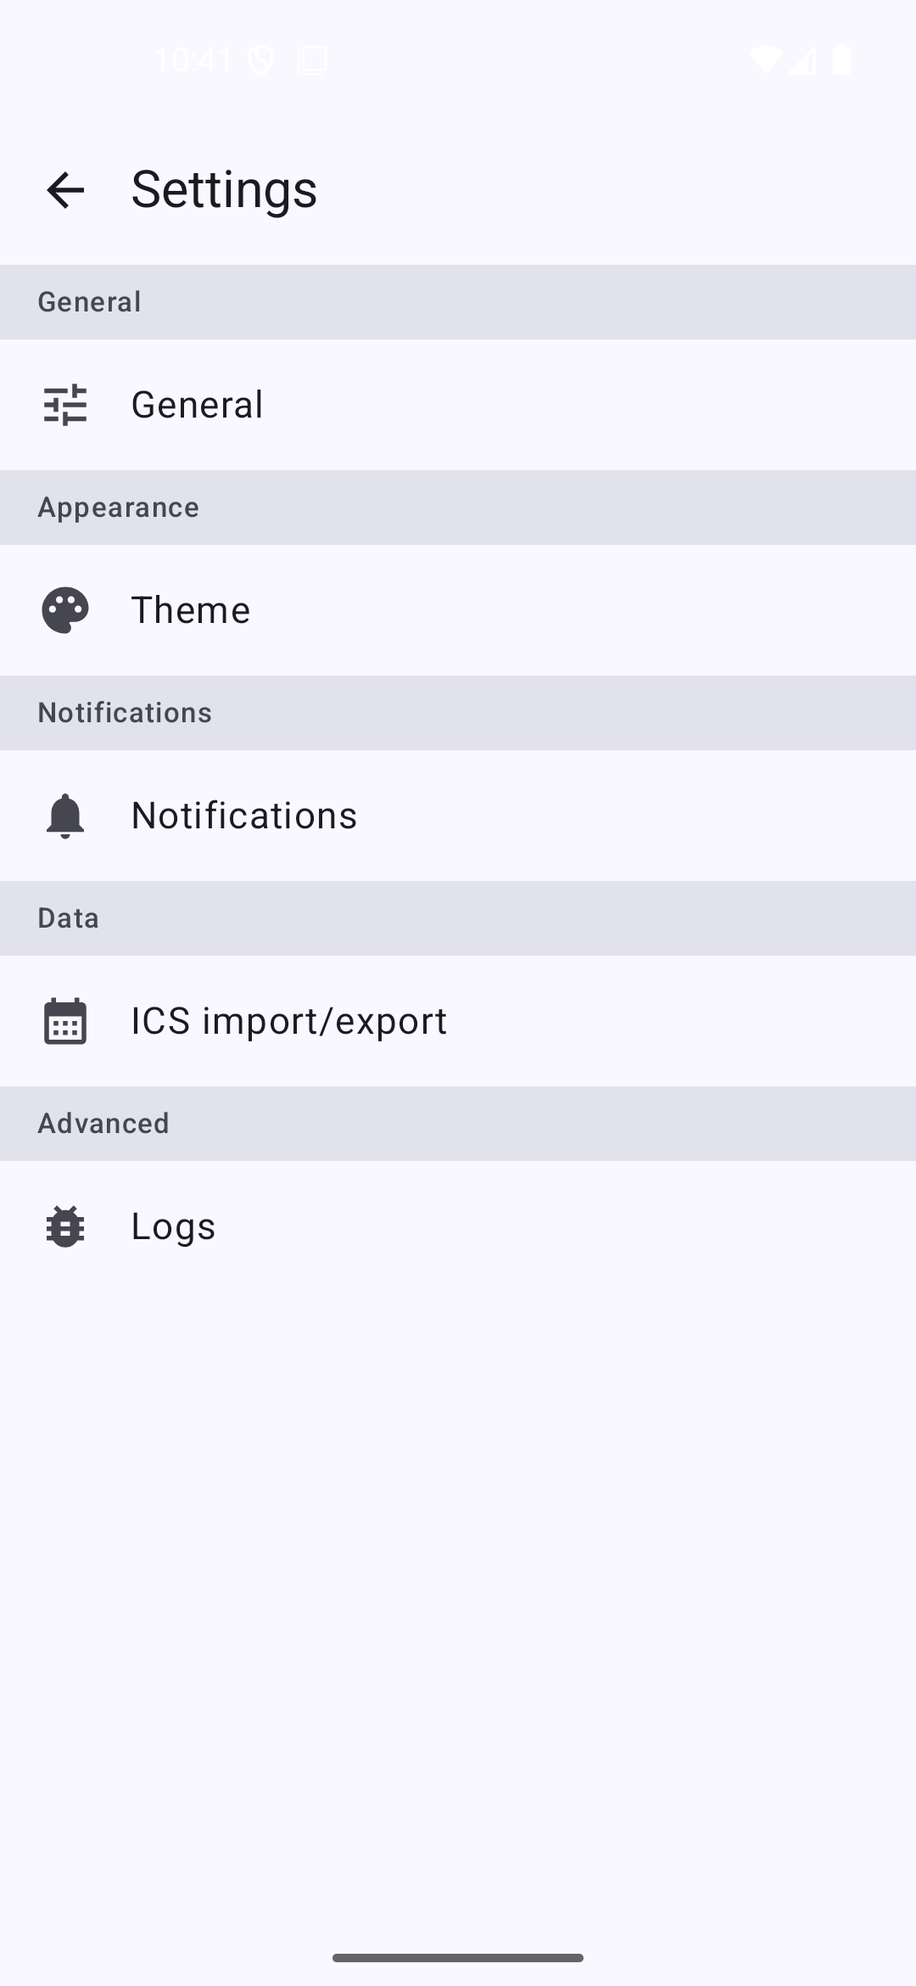
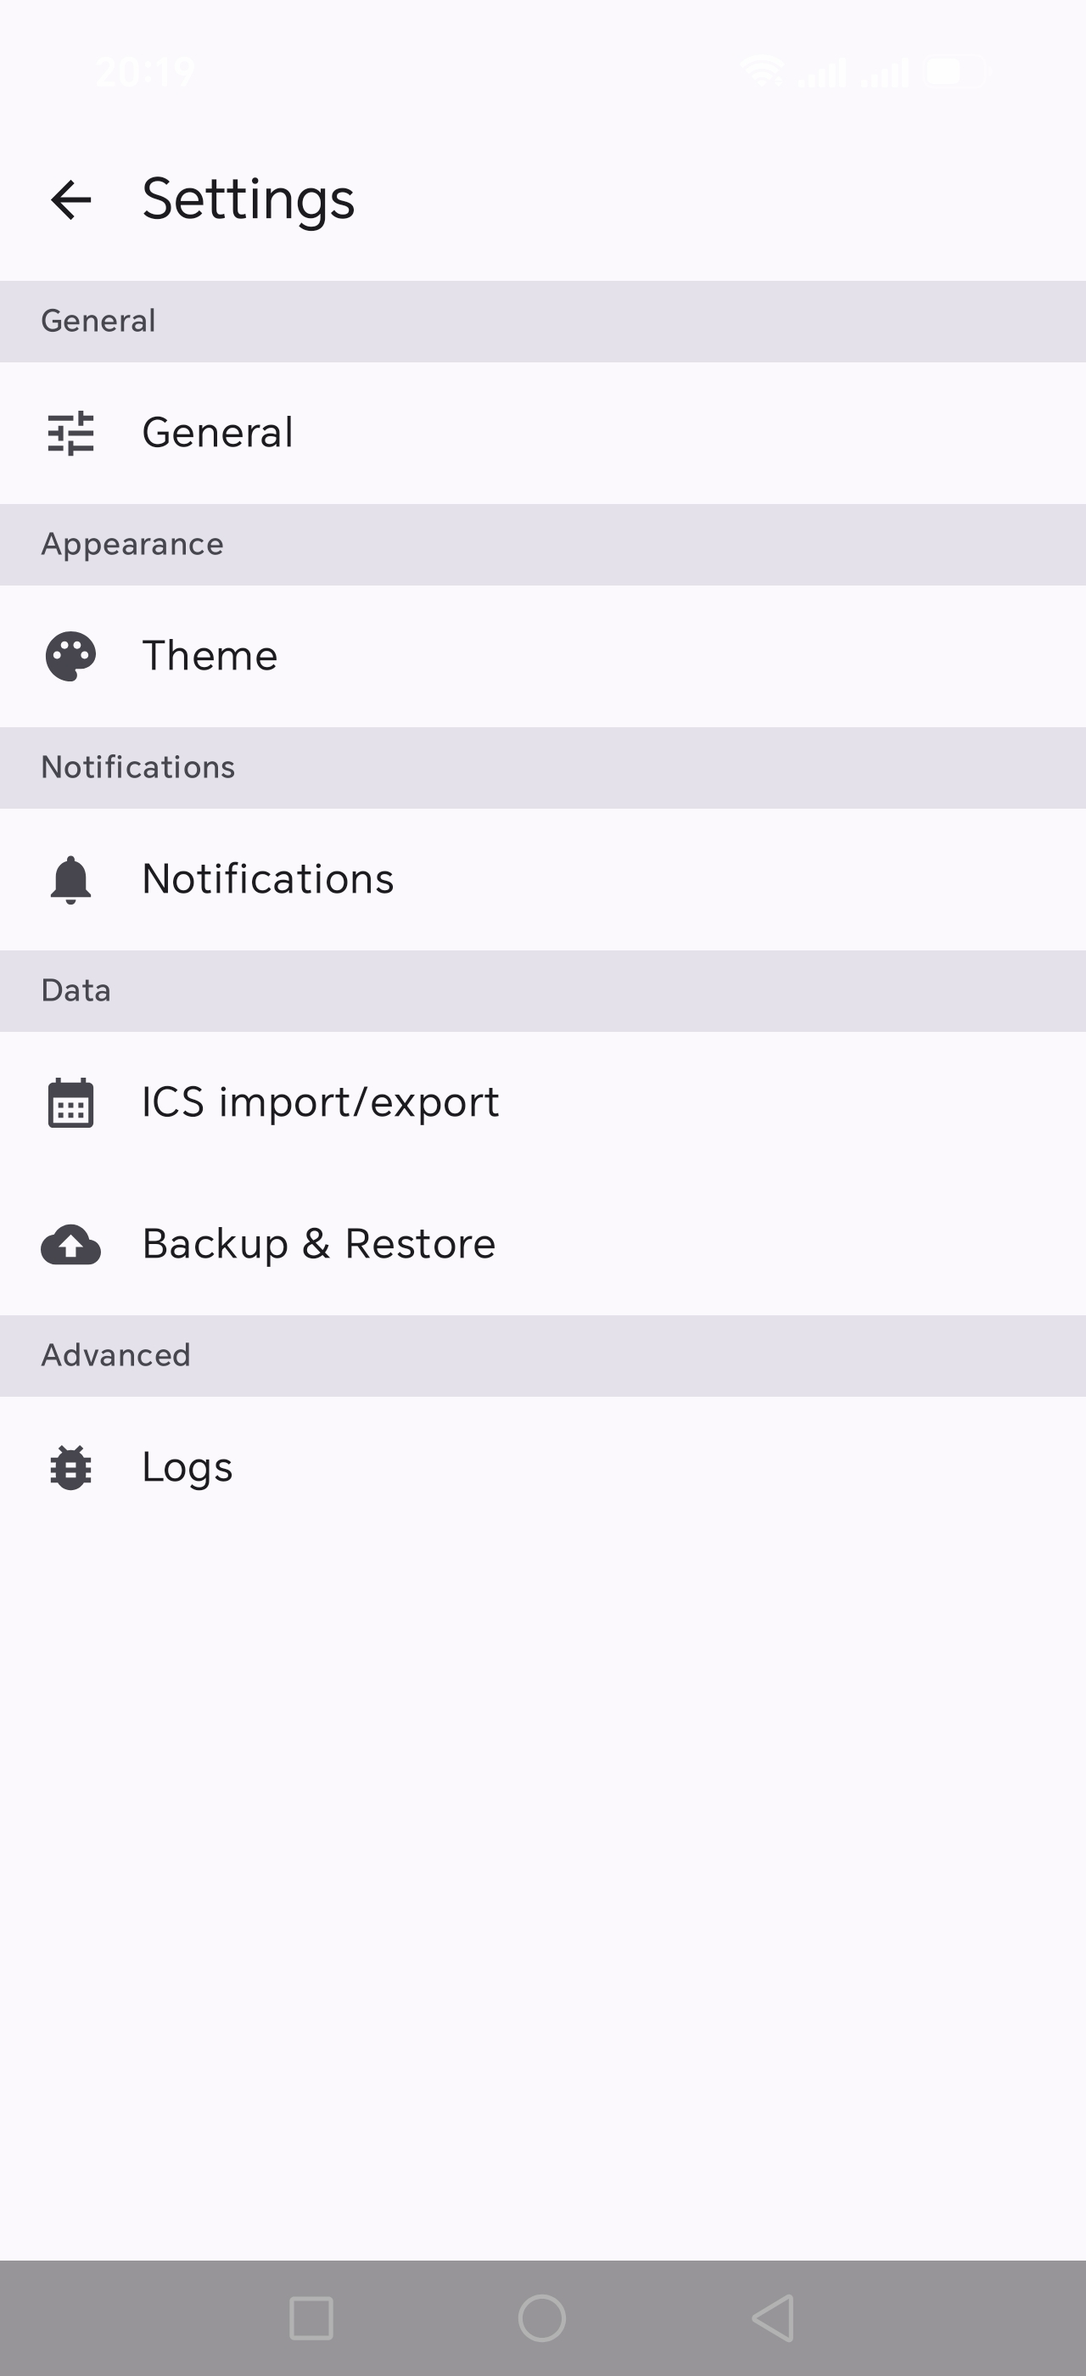
docs: refresh app descriptions, screenshots, README, and feature overview
Update each app's fastlane full_description.txt for recently shipped
features (Backup & Restore everywhere, shared location system, LiteRT-LM,
rescan suggestions, paperclip attachments, ML-based document detection,
unified scan modes, VoxConnect's actual pairing direction), add new
feature screenshots, and replace settings-sections screenshots that had
gone stale (missing the new Backup & Restore entry). README.md and
docs/APPS_OVERVIEW.md updated to match.

Changed region(s): [[0.0, 0.0624, 1.0, 0.6239], [0.0, 0.9359, 1.0, 1.0]]

diff --git a/docs/APPS_OVERVIEW.md b/docs/APPS_OVERVIEW.md
@@ -26,8 +26,10 @@ ecosystem plugs into, though it works completely on its own with no companion ap
      yourself. If one fires, nothing else runs.
   2. **L2 — Primary AI**, in-app labeled "AI Intent Translator (L2 Fallback)... Translates complex
      phrases into commands when Local Rules (L1) fail" (Settings → AI & Models → Intent Engines) — your
-     choice of a cloud LLM (OpenAI), Gemini Nano running natively on-device, Gemini Cloud, or any
-     downloaded on-device LLM engine.
+     choice of a cloud LLM (OpenAI), Gemini Nano running natively on-device, Gemini Cloud, or an
+     on-device LLM running via **LiteRT-LM** (migrated from MediaPipe GenAI for broader model
+     compatibility and better performance), with expanded system toggles and smarter FastMap rule
+     matching alongside it.
   3. **L3 — Offline Fallback**, a *separately*-configured backup engine+model used only if L2 fails or
      is unreachable (skipped automatically if it'd be identical to L2).
 
@@ -100,6 +102,18 @@ ecosystem plugs into, though it works completely on its own with no companion ap
 - **Vox Apps ecosystem** — companion apps (Notes, Vision, Expenses, Calendar, Hub) are discovered
   automatically once installed and controllable by voice with no extra setup; Settings → Integrations has
   a live panel listing discovered apps with a per-app contract-verification test.
+- **Location** (Settings → Integrations, shared `:core:location` module also used by Vox Expenses) — a
+  cached last-known location with a configurable expiry (None/1 day/1 week/1 month/Forever), a **Home
+  town** fallback used whenever GPS is unavailable and nothing's cached, and an **"Always use this
+  location"** toggle that skips GPS entirely and clears any cache, for a fixed search/weather location
+  regardless of where the device actually is.
+
+  <img width="388" height="850" alt="Location settings — Home town, cache duration, Always use this location" src="../vox-commander/fastlane/metadata/android/en-US/images/phoneScreenshots/26_location_hometown_cache.png" />
+
+- **Backup & Restore** (Settings → Backup tab) — back up FastMap rules and portable settings to a
+  file you pick, or restore from one, using the same zip format Vox Hub's own export/import produces;
+  restoring offers a choice of **Full override**, **Merge**, or **Additive** reconciliation (see
+  [Vox Hub](#vox-hub) below for the full explanation, shared by every app in the family).
 - Multi-language UI (English, Romanian, German, French).
 
 ## Vox Notes
@@ -140,7 +154,13 @@ through Commander (`create`/`read`) or used entirely on its own.
   unusable "Unclear Document" scan becomes a raw note holding just the photo instead of being lost),
   or always. Adding an attachment now offers **"Choose from gallery"** alongside the camera, plus the
   same **Single / Stitch / Batch** capture-mode chooser Vox Vision uses (see
-  [Vox Vision](#vox-vision) below).
+  [Vox Vision](#vox-vision) below). A note with at least one attachment shows a small paperclip icon
+  right after its title, in both the in-app list and the home-screen widget (shared across Notes,
+  Expenses, and Calendar — see [Vox Expenses](#vox-expenses)'s screenshot below).
+- **Backup & Restore** (Settings → Data → Backup & Restore) — back up notes/categories/settings to a
+  file you pick, or restore from one, using the same zip format Vox Hub's own export/import produces;
+  restoring offers **Full override**, **Merge**, or **Additive** reconciliation (see
+  [Vox Hub](#vox-hub) below).
 - **"Today" particle-effect theming** and **custom notification controls** (Settings, shared
   `:core:design` components also used by Vox Expenses/Vox Calendar) — see
   [Vox Calendar](#vox-calendar) below for what each does and a screenshot.
@@ -209,6 +229,14 @@ bank/payment notifications, or entered by hand.
   currency/vendor/category plus an `isPayment` triage flag, since notification text isn't guaranteed to
   even be a transaction) — all three route through Commander's generic LLM hook, just with different
   `task` IDs and prompts suited to how much structure each source actually has
+- **Rescan suggestions** — re-running OCR/AI cleanup on an already-saved expense (e.g. after attaching
+  a clearer photo) no longer overwrites fields silently: each field the rescan corrected shows up as its
+  own dismissible suggestion chip next to the current value, so you approve or reject them individually
+  instead of trusting the whole rewrite at once. An **auto-rescan on first attachment** setting
+  (Settings, off by default) triggers this automatically the moment a stub expense gets its first photo.
+
+  <img width="388" height="850" alt="Rescan suggestions, applied field by field" src="../vox-expenses/fastlane/metadata/android/en-US/images/phoneScreenshots/22_rescan_field_suggestions.png" />
+
 - **Notification capture** — an opt-in `NotificationListenerService` inspects notifications only from
   apps the user explicitly allowlists (Settings → Notification capture); a matched notification is a
   **pending suggestion** the user must approve or dismiss unless "Auto-accept" is enabled, in which case
@@ -314,7 +342,23 @@ bank/payment notifications, or entered by hand.
   original receipt scan (e.g. a warranty card, a second page); tap a thumbnail for a full-screen
   zoomable view, with an inline add/remove — same shared component as Vox Notes/Vox Calendar. Adding one
   now offers **"Choose from gallery"** alongside the camera, plus the same **Single / Stitch / Batch**
-  capture-mode chooser Vox Vision uses (see [Vox Vision](#vox-vision) above).
+  capture-mode chooser Vox Vision uses (see [Vox Vision](#vox-vision) above); removing one now asks for
+  confirmation first instead of deleting on the first tap. An expense with at least one attachment (the
+  original scan or a manually-added one) shows a small paperclip icon right after its title, in both the
+  in-app list and the home-screen widget.
+
+  <img width="388" height="850" alt="Paperclip indicator in the expense list" src="../vox-expenses/fastlane/metadata/android/en-US/images/phoneScreenshots/21_attachment_paperclip.png" />
+
+- **Location** (Settings → General, shared `:core:location` module also used by Vox Commander) — the
+  same cached-location/Home-town/"Always use this location" system described under
+  [Vox Commander](#vox-commander) above, used here to prefill an expense's location field.
+- **Backup & Restore** (Settings → Data → Backup & Restore) — back up expenses/categories/duplicate
+  rules/settings to a file you pick, or restore from one, using the same zip format Vox Hub's own
+  export/import produces; restoring offers **Full override**, **Merge**, or **Additive** reconciliation
+  (see [Vox Hub](#vox-hub) below).
+
+  <img width="388" height="850" alt="Backup & Restore, with the three restore modes" src="../vox-expenses/fastlane/metadata/android/en-US/images/phoneScreenshots/20_backup_restore.png" />
+
 - **Home-screen widget** (Jetpack Glance) — recent expenses grouped by day, category-colored rows,
   tap an expense to edit it in place, plus Add/Scan actions
 - **Battery-optimization exemption prompt** — Settings → Notification Capture and first-launch
@@ -343,8 +387,12 @@ own doc comment). Voice-created through Commander (`create`/`read`) or used enti
   `:core:calendar` engine, Week/Day are a new local hour-of-day grid, Year is 12 compact mini-months. Day
   view draws a red **"now" line** at the current time-of-day position and auto-scrolls to land near it
   on first open — the same "now" concept the ToDo timeline and home-screen widget also show (see below).
+  Once nothing's left for today, a **"Nothing else today"** label shows up right after the now-line (Day
+  view, the ToDo timeline, and the home-screen widget alike), bracketed by a time-of-day emoji pair
+  (☕/☀ morning-day, 🍵/🌅 golden hour, 🌙/✨ night) that stays in sync across all three.
 
   <img width="388" height="850" alt="Day view with the now-line" src="../vox-calendar/fastlane/metadata/android/en-US/images/phoneScreenshots/14_day_view_now_line.png" />
+  <img width="388" height="850" alt="Nothing else today, after the now-line" src="../vox-calendar/fastlane/metadata/android/en-US/images/phoneScreenshots/19_nothing_else_today.png" />
 
 - **Colored, named layers** (e.g. Personal / Work / Moon Calendar) instead of a hierarchical
   category tree — flat layers plus optional flat tags, each layer independently toggleable and
@@ -401,9 +449,16 @@ own doc comment). Voice-created through Commander (`create`/`read`) or used enti
   Batch** capture-mode chooser Vox Vision uses (Stitch live-joins several overlapping shots of one
   document, Batch defers OCR on a batch of photos until the session ends) — the "add" tile opens a
   chooser dialog rather than jumping straight to the camera. Shared component, same on Vox Notes/Vox
-  Expenses.
+  Expenses. An entry with at least one attachment shows a small paperclip icon right after its title, in
+  the calendar grid, the ToDo list, and the home-screen widget alike (see
+  [Vox Expenses](#vox-expenses)'s screenshot for what this looks like).
 
   <img width="388" height="850" alt="Attachments: gallery pick and capture-mode chooser" src="../vox-calendar/fastlane/metadata/android/en-US/images/phoneScreenshots/18_attachments_camera_gallery.png" />
+
+- **Backup & Restore** (Settings → Data → Backup & Restore) — back up events/layers/ToDo
+  lists/settings to a file you pick, or restore from one, using the same zip format Vox Hub's own
+  export/import produces; restoring offers **Full override**, **Merge**, or **Additive** reconciliation
+  (see [Vox Hub](#vox-hub) below).
 
 - **"Today" particle-effect theming** (Settings → Theme, `:core:design`'s `TodayEffects`, shared with
   Vox Notes/Vox Expenses) — an animated Canvas particle highlight on the current day, with five presets
@@ -447,14 +502,29 @@ other satellite implements as a server.
   into one dated zip via `ActivityResultContracts.CreateDocument`. This exact configuration is also
   what **scheduled backups** use (see below) — there's no separate data-selection step for those
 - **Import** — reads a previously exported file, previews a per-app record-count summary before
-  anything is written, and lets the user deselect individual apps; each target app applies its own
-  snapshot-then-replace semantics (existing records for that domain are fully replaced by the import,
-  not merged) and re-attaches any bundled photos to the newly-restored records
+  anything is written, and lets the user deselect individual apps; each target app reconciles its own
+  records against the import per one global **Import mode** (see below) and re-attaches any bundled
+  photos to the newly-restored records
+- **Import mode** (Settings → Backup schedule) — one global choice of how every app reconciles an
+  imported file against what's already on it: **Full override** (delete everything that app already had,
+  then insert the import), **Merge** (only delete pre-existing rows older than the backup, so anything
+  created since is kept), or **Additive** (never delete, only insert — the import just adds to what's
+  already there). Still respects each app's own Data toggle above — an app with Data off is skipped for
+  import entirely, regardless of this setting. Every satellite app's own local Backup & Restore screen
+  (see e.g. [Vox Expenses](#vox-expenses) above) has this exact same 3-way choice for its own restore
+  button, independent of Hub's global setting.
+
+  <img width="388" height="850" alt="Hub's backup schedule with the global Import mode control" src="../vox-hub/fastlane/metadata/android/en-US/images/phoneScreenshots/7_backup_schedule_import_mode.png" />
+
 - **Scheduled backups** — off/daily/weekly/monthly interval (`WorkManager`), configurable retention
   (none/2/5/10/unlimited, with a storage-growth warning at unlimited), a dismissible failure banner
   when a scheduled run doesn't complete, and a past-backups list (capped to 5 visible rows, scrollable)
   with per-backup **Share** and **Restore** actions. Frequency/retention controls are disabled until at
   least one app has something selected in the Export card above — there's nothing to schedule otherwise
+- **Backup & Restore, everywhere** — Notes, Expenses, Calendar, and Commander each have their own local
+  Backup & Restore screen too (see each app's own section above) — save to or restore from a file you
+  pick directly in that app, using the exact same zip format Hub's export/import produces, so a file
+  saved from one path is importable via the other. Hub itself also has one, for its own settings.
 - **Peer-to-peer device sync** — a second, genuinely *bidirectional* path alongside export/import's
   one-directional restore: pair two phones over NFC (tap to exchange identity + a session key — no
   Bluetooth PIN dialog), then sync Notes/Calendar/Expenses over Bluetooth Classic, both phones ending up
@@ -463,11 +533,14 @@ other satellite implements as a server.
   minutes (configurable). Per-peer category/layer checklist controls what's included. See
   [`TECHNICAL_DOCUMENTATION.md`'s Peer-to-peer device sync section](TECHNICAL_DOCUMENTATION.md#peer-to-peer-device-sync-op_sync_export--op_sync_merge)
   for the full architecture.
-- **VoxConnect** — a QR-paired bridge to a PC companion (`core/voxconnect`): scan a QR code the desktop
-  app shows to exchange identity, then a foreground bridge service keeps the phone reachable for the PC
-  side; schema-driven field discovery lets the PC app introspect what a paired phone can do without a
+- **VoxConnect** — a QR-paired bridge to a PC companion (`core/voxconnect`): the *phone's* camera scans
+  a QR code the desktop app displays (not the other way around, since most desktops have no camera) to
+  exchange identity, then a foreground bridge service keeps the phone reachable for the PC side;
+  schema-driven field discovery lets the PC app introspect what a paired phone can do without a
   hardcoded contract per feature, and a paired device can be renamed for easy identification when
   managing more than one.
+
+  <img width="388" height="850" alt="Phone scanning the desktop app's pairing QR code" src="../vox-hub/fastlane/metadata/android/en-US/images/phoneScreenshots/6_voxconnect_qr_pairing.png" />
 - Settings is grouped into labeled section banners (General/Appearance/Integrations/Advanced), same
   shared pattern as every app in the family.
 

diff --git a/README.md b/README.md
@@ -142,9 +142,11 @@ app, with implementation-level detail.
 ### 🎙 Vox Commander
 
 On-device voice assistant. Wake word (Vosk/Porcupine/OpenWakeWord) and on-device Whisper STT feed a
-3-layer AI pipeline — instant FastMap voice-shortcut rules you define yourself, a primary AI (cloud or
-on-device LLM), then an automatic offline fallback; app control, media/search/navigation/messaging, and
-system toggles (volume, WiFi, flashlight, DND, and more) all route through the same pipeline.
+3-layer AI pipeline — instant FastMap voice-shortcut rules you define yourself, a primary AI (cloud,
+Gemini Nano, or an on-device LiteRT-LM model), then an automatic offline fallback; app control,
+media/search/navigation/messaging, and system toggles (volume, WiFi, flashlight, DND, and more) all
+route through the same pipeline. A shared location system (cached last-known location, a Home Town
+fallback, "always use this location") and its own Backup & Restore screen round it out.
 
 <img width="388" height="850" alt="Vox Commander home screen" src="vox-commander/fastlane/metadata/android/en-US/images/phoneScreenshots/20_commander_home.png" />
 
@@ -159,8 +161,9 @@ https://github.com/user-attachments/assets/ff61a5de-d59c-4bdf-aacc-55bb1034cc07
 Encrypted on-device notes app. Create notes by voice through Commander or by hand; AI-assisted category
 cleanup and duplicate-note review (nothing auto-deleted without confirmation); a shared category color
 picker (scrollable presets + a full custom-color screen) with inline "+ New category…" creation right
-from the note editor; an optional calendar view instead of the plain list; a home-screen widget; syncs
-with another phone via Vox Hub.
+from the note editor; an optional split grid-and-list calendar view instead of the plain list; photo
+attachments via camera or gallery with a paperclip indicator; a home-screen widget; syncs with another
+phone via Vox Hub, plus its own Backup & Restore screen.
 
 <img width="388" height="850" alt="voice-to-note" src="https://github.com/user-attachments/assets/9435dfd2-a394-41ea-9539-acc83353a47d" />
 
@@ -179,11 +182,13 @@ record.
 
 Encrypted on-device expense tracker. Three ways in — voice, receipt-scan OCR, or automatic capture from
 bank/payment notifications (now durably queued and retried, not fire-and-forget) — plus manual entry;
-transaction direction (Total vs. Received in Reports), a user-configurable duplicate-rule engine
-(email-filter-style: any field, AND/OR, multiple rules, Off/Local/Local+AI/AI protection modes), merchant
-category memory (auto-applies a category after you correct the same vendor a few times), per-category
-spending limits with alerts, multi-currency reports, an optional calendar view, a home-screen widget,
-and sync with another phone via Vox Hub.
+rescanning a receipt shows each corrected field as its own suggestion instead of silently overwriting
+anything; transaction direction (Total vs. Received in Reports), a user-configurable duplicate-rule
+engine (email-filter-style: any field, AND/OR, multiple rules, Off/Local/Local+AI/AI protection modes),
+merchant category memory (auto-applies a category after you correct the same vendor a few times), a
+shared location system with Commander, per-category spending limits with alerts, multi-currency reports,
+photo attachments via camera or gallery with a paperclip indicator, an optional calendar view, a
+home-screen widget, sync with another phone via Vox Hub, and its own Backup & Restore screen.
 
 <img width="388" height="850" alt="invoice-to-expense" src="https://github.com/user-attachments/assets/244ed0fd-f71c-48cf-8f03-82d3726bf4df" />
 <img width="388" height="850" alt="voice-lidl-to-expense" src="https://github.com/user-attachments/assets/752bd7c7-79e3-4390-b1ef-d5c25daa2ca4" />
@@ -194,9 +199,11 @@ and sync with another phone via Vox Hub.
 ### 📅 Vox Calendar
 
 Encrypted on-device calendar. Colored, named layers instead of a rigid category tree; natural-language
-event/task creation through Commander ("dentist in a week"); ICS import/export for interop with Google
-Calendar/Thunderbird/Apple Calendar; a day view that also shows that day's Notes and Expenses; syncs
-with another phone via Vox Hub.
+event/task creation through Commander ("dentist in a week"); a reworked to-do list with due-date bleed
+onto the calendar/widget, star markers, and a "now"/"Up next" timeline; ICS import/export for interop
+with Google Calendar/Thunderbird/Apple Calendar; a day view that opens at the current time, also shows
+that day's Notes and Expenses, and tells you when there's "Nothing else today"; photo attachments with
+a paperclip indicator; syncs with another phone via Vox Hub, plus its own Backup & Restore screen.
 
 <img width="388" height="850" alt="dentist-to-calendar" src="https://github.com/user-attachments/assets/d911d7cc-c46e-4de6-a78f-96c7bcdccad2" />
 
@@ -206,9 +213,11 @@ with another phone via Vox Hub.
 ### 🗂 Vox Hub
 
 Backup, restore, and peer-to-peer sync. Zero-config export/import (discovers every installed Vox app
-automatically), scheduled backups with retention and a failure banner, NFC-paired,
-Bluetooth-transferred bidirectional sync between two phones for Notes/Calendar/Expenses, and
-VoxConnect — a QR-paired bridge to a PC companion app — no cloud involved.
+automatically), scheduled backups with retention and a failure banner, a global Import mode (Full
+override / Merge / Additive) applied across every app, NFC-paired, Bluetooth-transferred bidirectional
+sync between two phones for Notes/Calendar/Expenses, and VoxConnect — your phone scans a QR code shown
+on the desktop companion app to pair, since most desktops have no camera — no cloud involved. Every
+companion app now also has its own local Backup & Restore screen, interchangeable with Hub's own files.
 
 → [Full feature list](docs/APPS_OVERVIEW.md#vox-hub)
 
